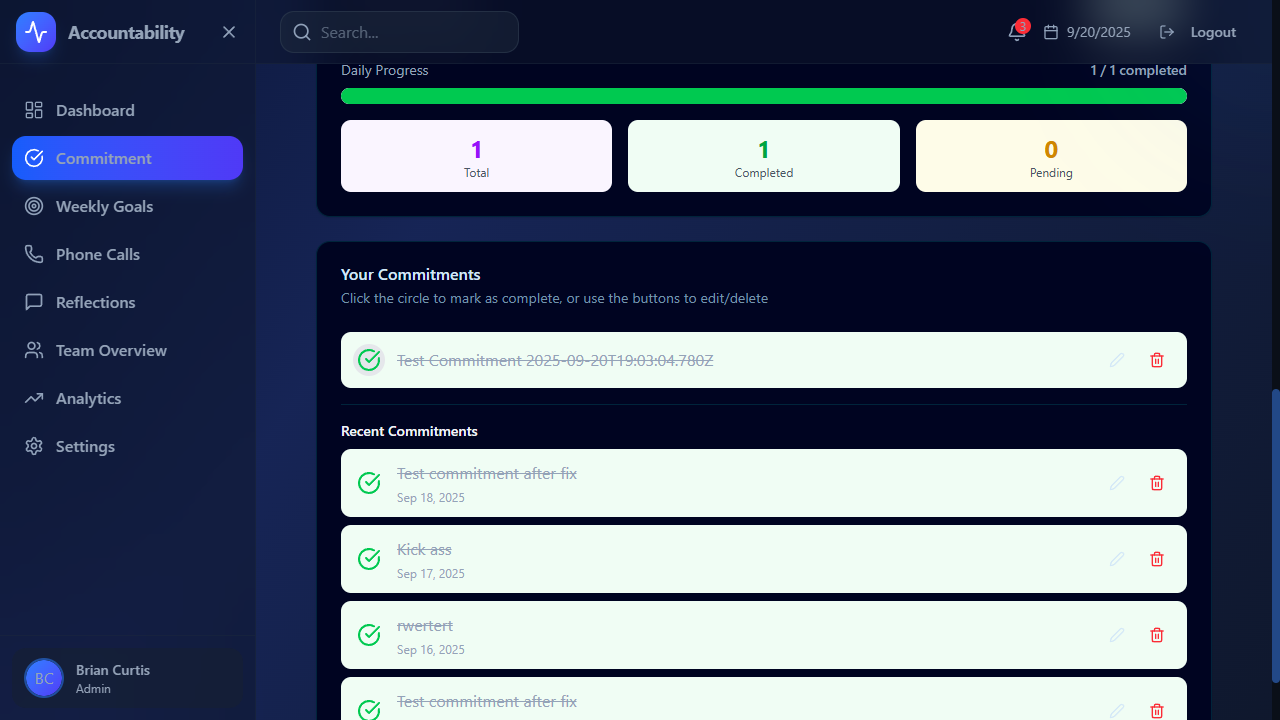
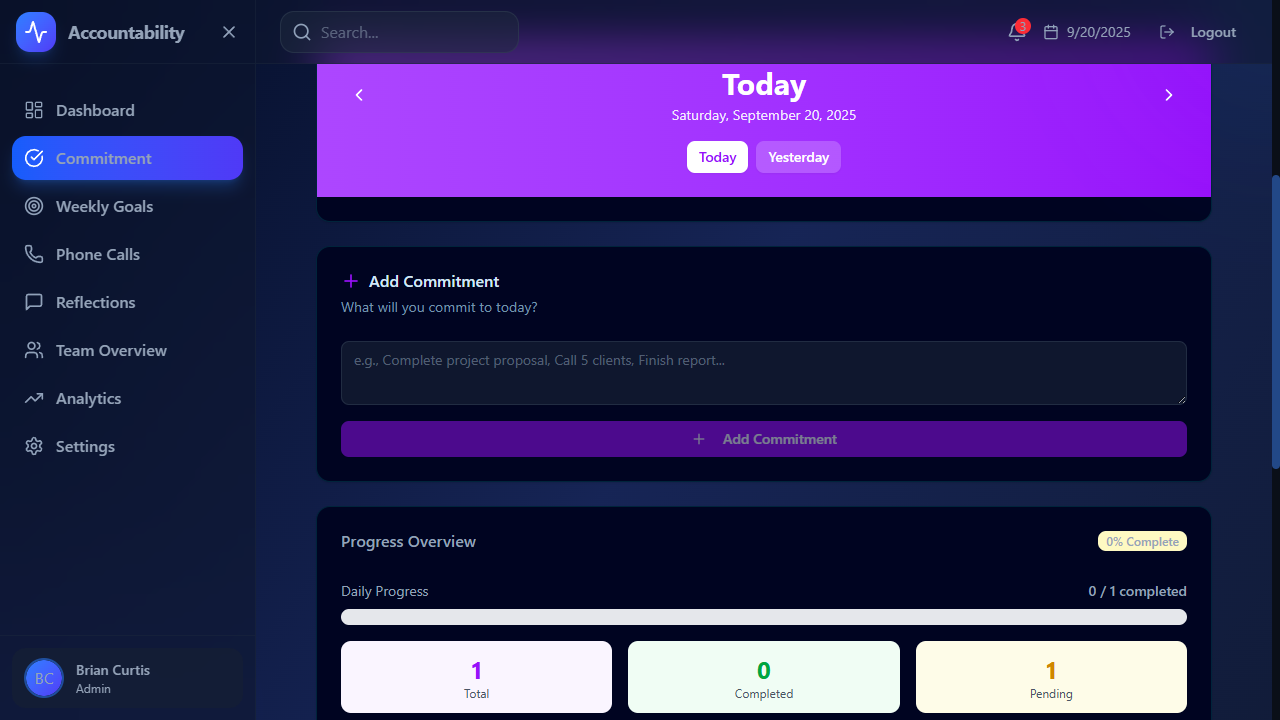
Fix critical issues with commitments and goals functionality
- Fixed edit buttons not appearing by correcting ternary operator logic
- Fixed goals API endpoint from /goals/{userId} to /goals?userId={userId}
- Edit buttons now properly render when not in edit mode

🤖 Generated with [Claude Code](https://claude.ai/code)

diff --git a/src/components/CommitmentsSection.jsx b/src/components/CommitmentsSection.jsx
@@ -409,7 +409,7 @@ const CommitmentsSection = ({ user }) => {
                   )}
                 </div>
 
-                {editingCommitment !== commit.id && (
+                {editingCommitment !== commit.id ? (
                   <div className="flex gap-1">
                     <Button
                       size="sm"
@@ -430,7 +430,7 @@ const CommitmentsSection = ({ user }) => {
                       <Trash2 className="h-4 w-4" />
                     </Button>
                   </div>
-                )}
+                ) : null}
               </div>
             ))}
 
@@ -441,7 +441,7 @@ const CommitmentsSection = ({ user }) => {
                   <div className="border-t pt-4 mt-4">
                     <h4 className="text-sm font-medium text-gray-700 mb-2">Recent Commitments</h4>
                   </div>
-                )}
+                ) : null}
                 {recentCommitments
                   .filter(recent => !commitments.find(today => today.id === recent.id)) // Don't duplicate today's commitments
                   .map((commit) => (
@@ -506,7 +506,7 @@ const CommitmentsSection = ({ user }) => {
                       )}
                     </div>
 
-                    {editingCommitment !== commit.id && (
+                    {editingCommitment !== commit.id ? (
                       <div className="flex gap-1">
                         <Button
                           size="sm"

diff --git a/src/lib/api-client.js b/src/lib/api-client.js
@@ -152,7 +152,7 @@ export const commitmentsAPI = {
 // Goals APIs
 export const goalsAPI = {
   async getByUser(userId) {
-    return apiCall(`/goals/${userId}`)
+    return apiCall(`/goals?userId=${userId}`)
   },
 
   async create(userId, goalText, targetDate = null) {
